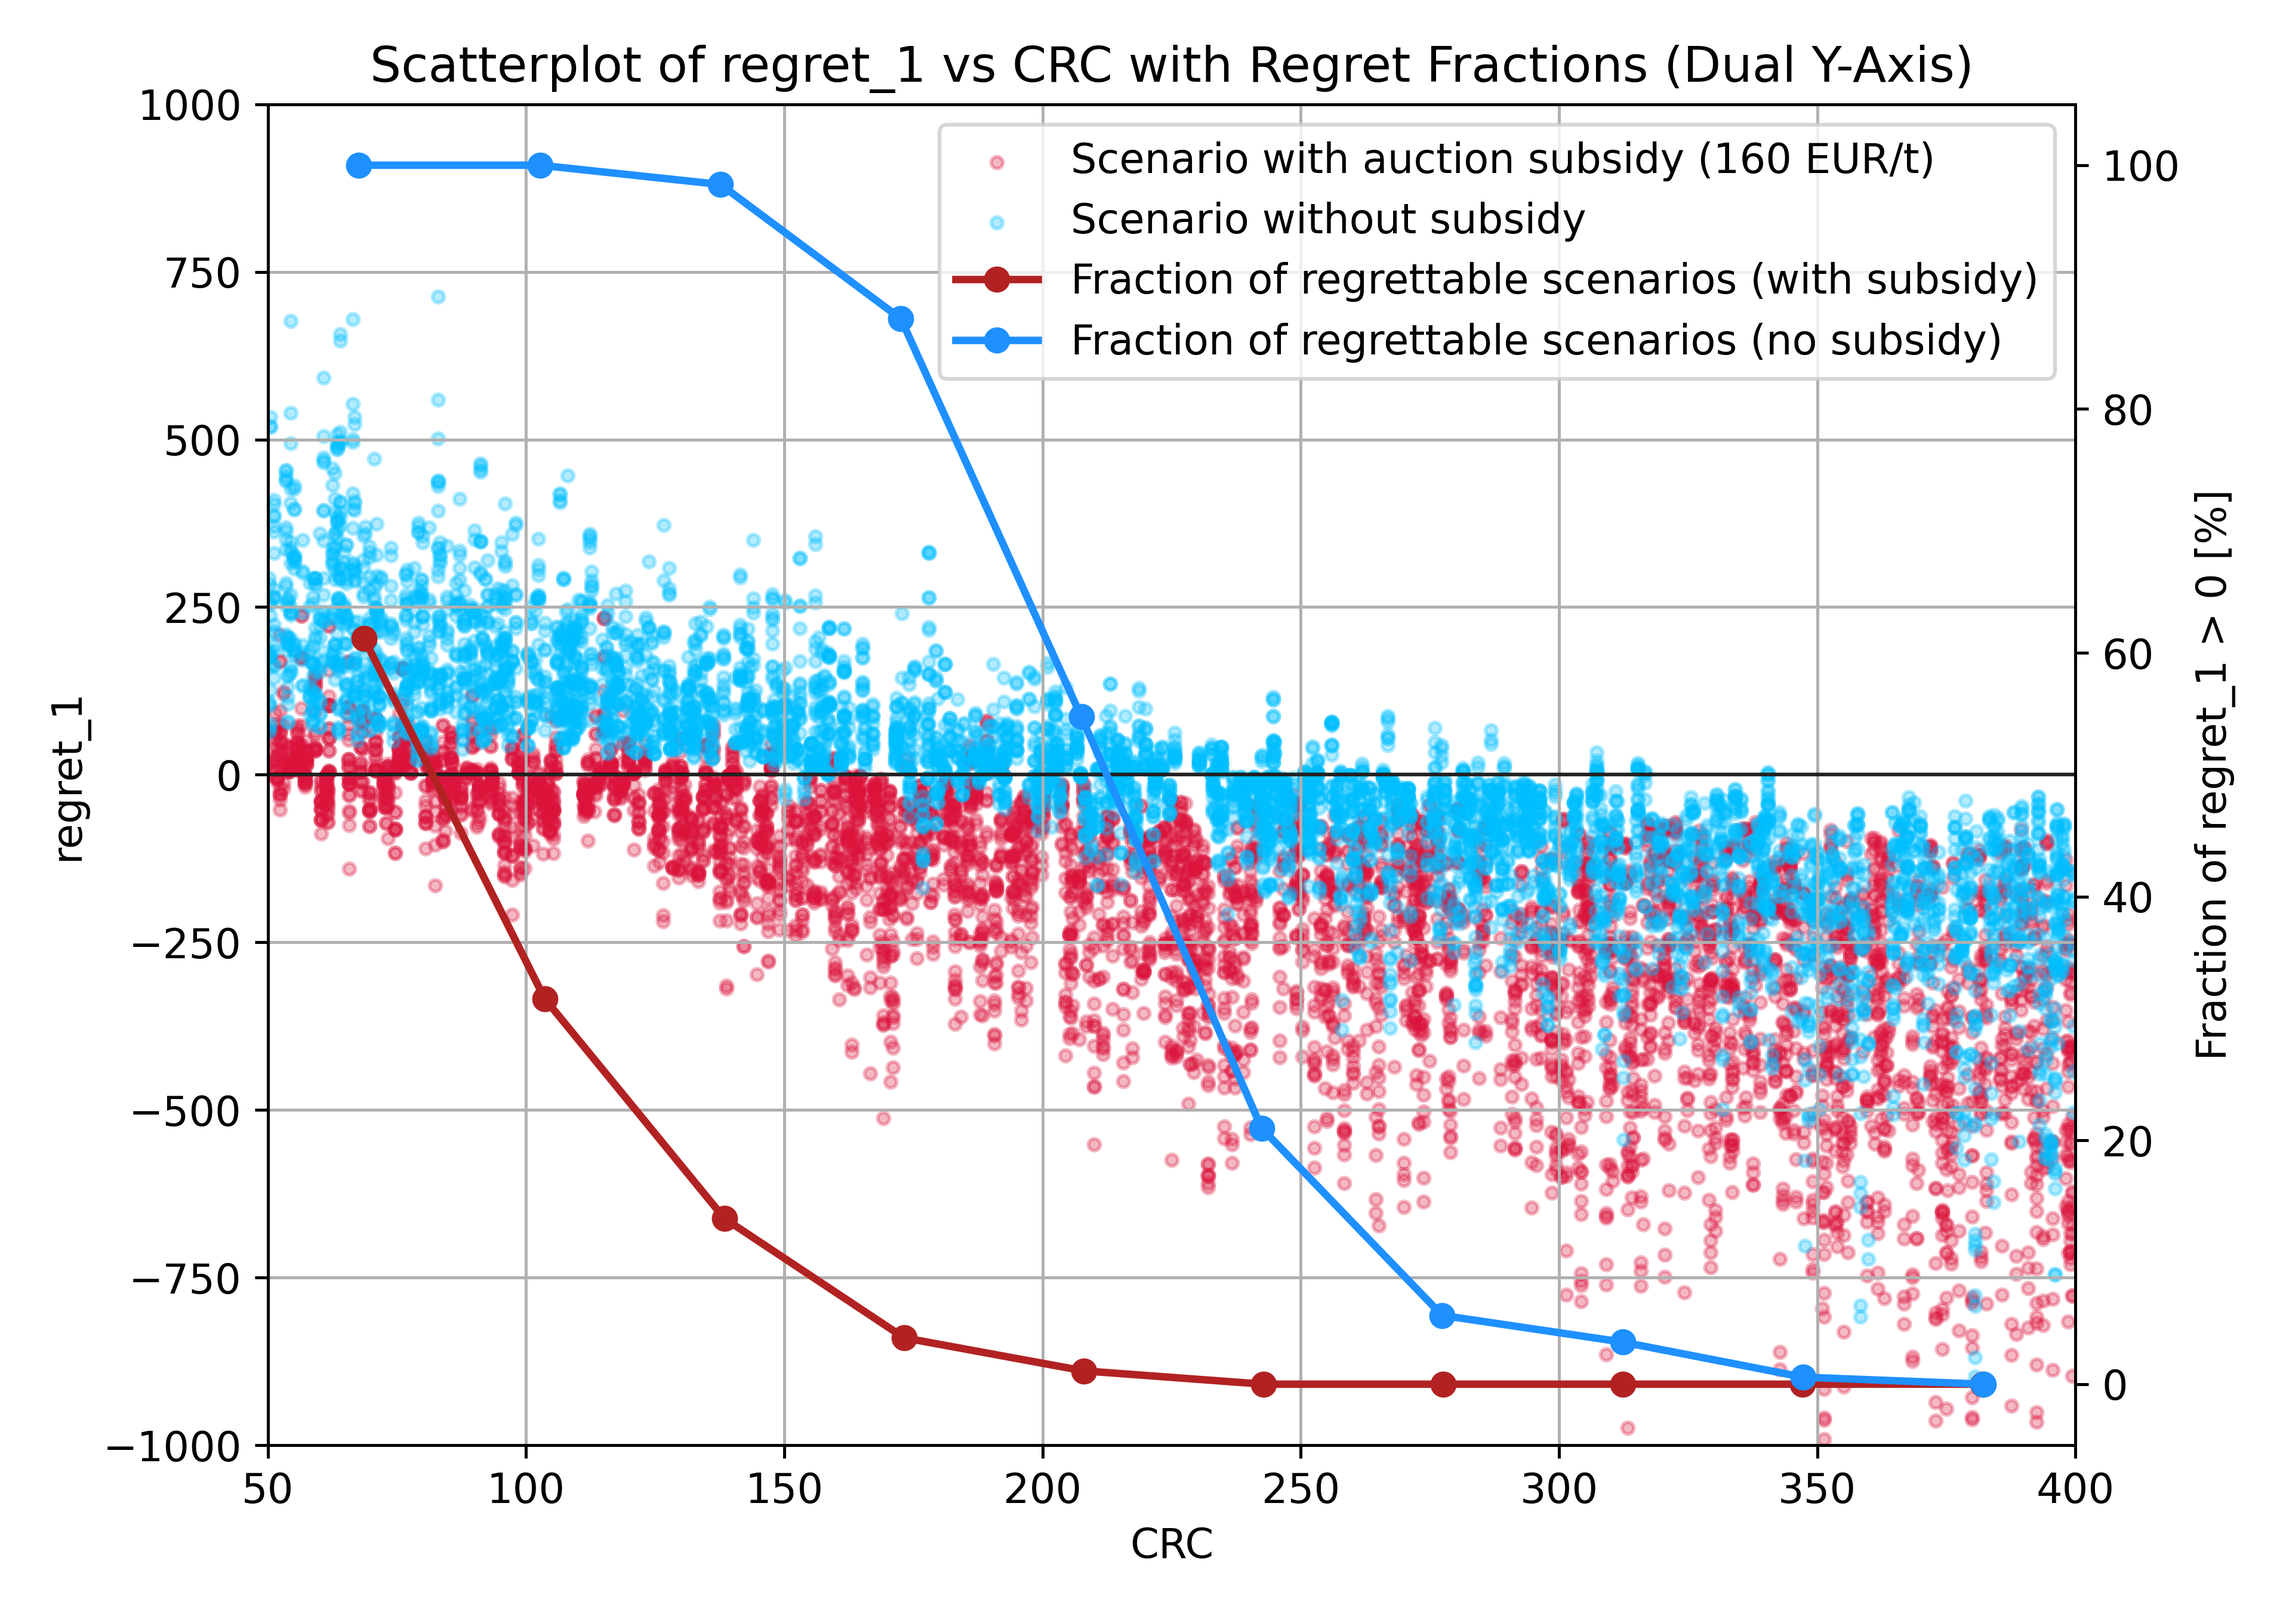
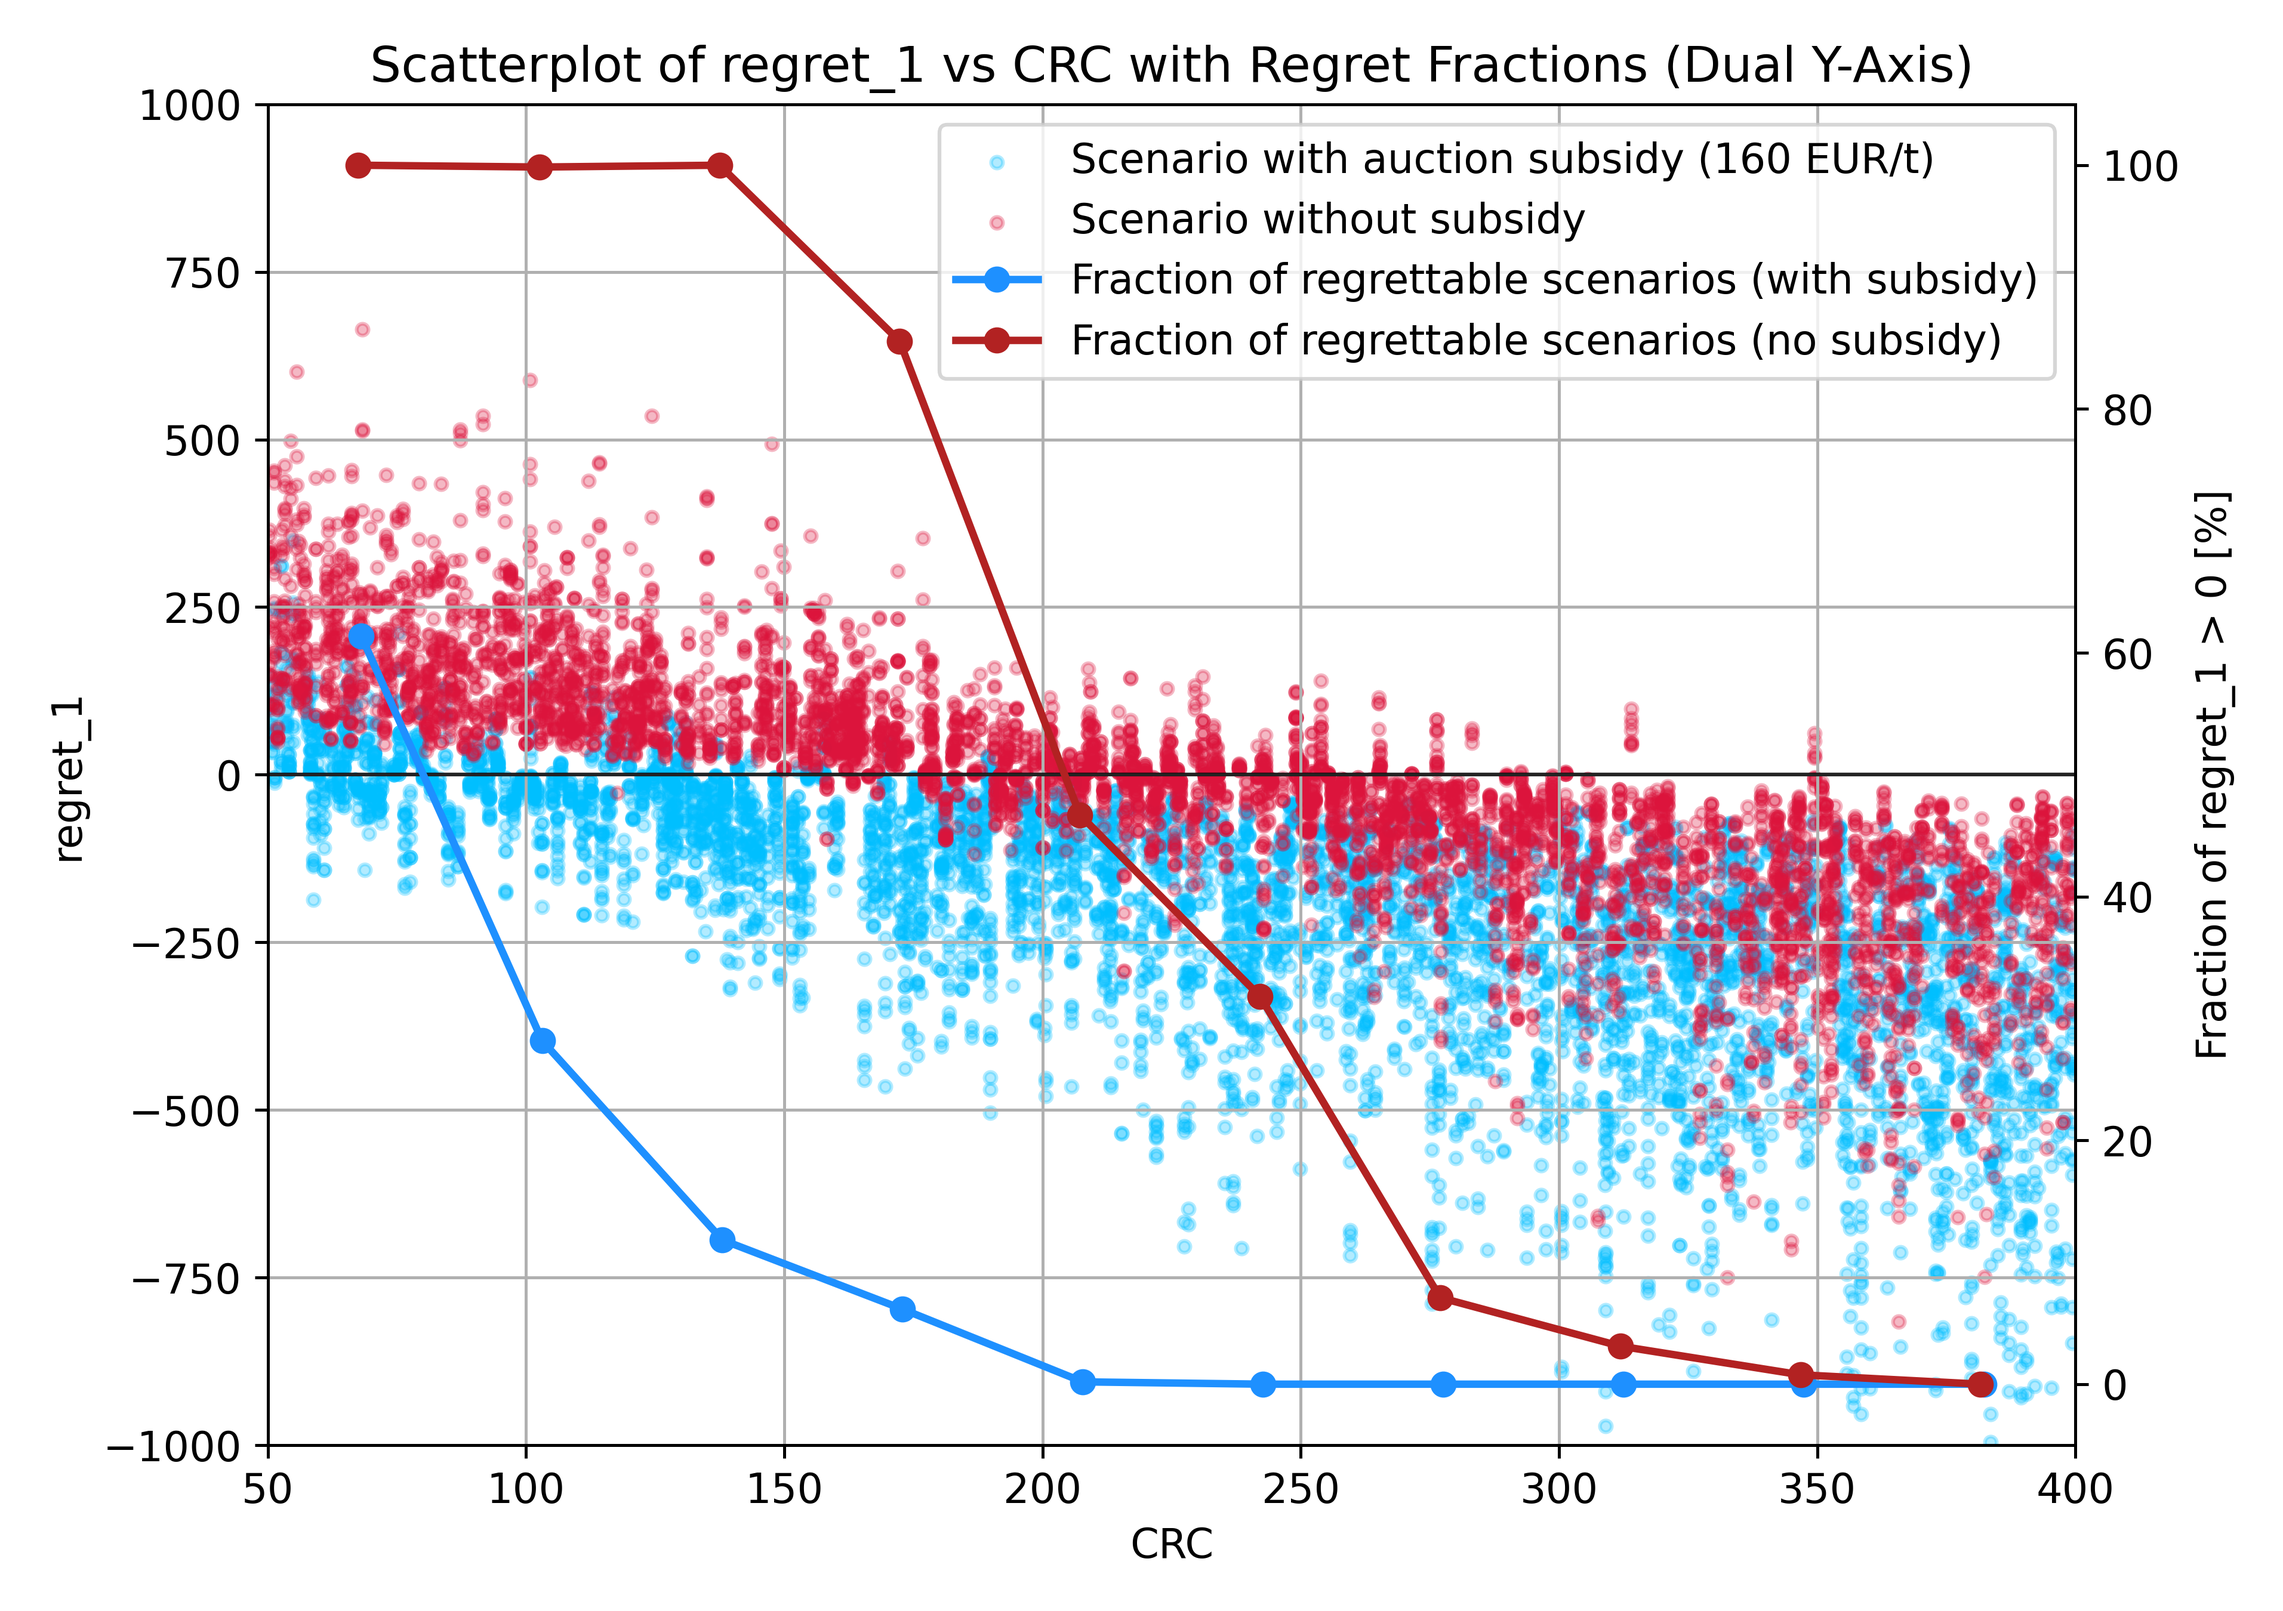
New plots

diff --git a/regret1_plotting.py b/regret1_plotting.py
@@ -39,8 +39,8 @@ x_false, y_false = compute_regret_fraction(df_false)
 fig, ax1 = plt.subplots(figsize=(8.5, 6))
 
 # Scatter on left y-axis
-ax1.scatter(df_true["crc"], df_true["regret_1"], alpha=0.3, label="Scenario with auction subsidy (160 EUR/t)", color="crimson", s=10)
-ax1.scatter(df_false["crc"], df_false["regret_1"], alpha=0.3, label="Scenario without subsidy", color="deepskyblue", s=10)
+ax1.scatter(df_true["crc"], df_true["regret_1"], alpha=0.3, label="Scenario with auction subsidy (160 EUR/t)", color="deepskyblue", s=10)
+ax1.scatter(df_false["crc"], df_false["regret_1"], alpha=0.3, label="Scenario without subsidy", color="crimson", s=10)
 
 ax1.set_xlabel("CRC")
 ax1.set_ylabel("regret_1")
@@ -51,8 +51,8 @@ ax1.set_xlim(50, 400)
 
 # Create second y-axis
 ax2 = ax1.twinx()
-ax2.plot(x_true, y_true*100, marker='o', label="Fraction of regrettable scenarios (with subsidy)", color="firebrick", linewidth=2)
-ax2.plot(x_false, y_false*100, marker='o', label="Fraction of regrettable scenarios (no subsidy)", color="dodgerblue", linewidth=2)
+ax2.plot(x_true, y_true*100, marker='o', label="Fraction of regrettable scenarios (with subsidy)", color="dodgerblue", linewidth=2)
+ax2.plot(x_false, y_false*100, marker='o', label="Fraction of regrettable scenarios (no subsidy)", color="firebrick", linewidth=2)
 ax2.set_ylabel("Fraction of regret_1 > 0 [%]")
 ax2.set_ylim(-5, 105)
 
